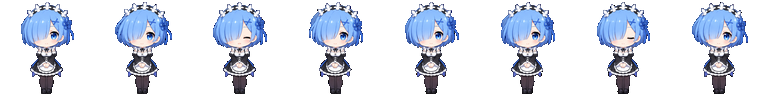
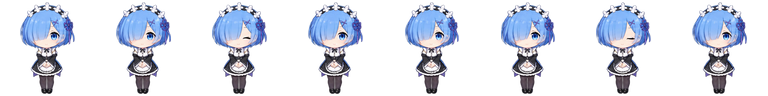
fix: rebuild complete imported pet sprites

diff --git a/public/floating-bootstrap.js b/public/floating-bootstrap.js
@@ -132,7 +132,6 @@
     var suppressLauncherClick = false;
     var petVisual = null;
     var petSprite = null;
-    var petSpriteUnderlay = null;
     var petMenu = null;
     var wandPetEntry = null;
     var wandObserver = null;
@@ -1453,36 +1452,28 @@
       if (!petSprite) return;
       var meta = petStateMeta(petState);
       var visualScale = meta.directional && petDirection !== PET_BASE_FACING ? -1 : 1;
-      [petSpriteUnderlay, petSprite].filter(Boolean).forEach(function (layer) {
-        layer.style.setProperty("--pet-facing-scale", String(visualScale));
-      });
+      petSprite.style.setProperty("--pet-facing-scale", String(visualScale));
     }
 
     function applyPetStateAppearance() {
       if (!petSprite) return;
       var meta = petStateMeta(petState);
       var backgroundImage = "url('" + petAssetUrl(petStateAsset(petState)).replace(/'/g, "%27") + "')";
-      [petSpriteUnderlay, petSprite].filter(Boolean).forEach(function (layer) {
-        layer.style.backgroundImage = backgroundImage;
-        layer.style.backgroundSize = (meta.total * PET_RENDER_SIZE) + "px " + PET_RENDER_SIZE + "px";
-        layer.style.setProperty("--pet-lift", "0px");
-      });
+      petSprite.style.backgroundImage = backgroundImage;
+      petSprite.style.backgroundSize = (meta.total * PET_RENDER_SIZE) + "px " + PET_RENDER_SIZE + "px";
+      petSprite.style.setProperty("--pet-lift", "0px");
       if (launcher) {
         launcher.dataset.petState = petState;
         launcher.dataset.petCharacter = petCharacterId;
       }
       var visualScale = meta.directional && petDirection !== PET_BASE_FACING ? -1 : 1;
-      [petSpriteUnderlay, petSprite].filter(Boolean).forEach(function (layer) {
-        layer.style.setProperty("--pet-facing-scale", String(visualScale));
-      });
+      petSprite.style.setProperty("--pet-facing-scale", String(visualScale));
     }
 
     function applyPetFrame() {
       if (!petSprite) return;
       var position = (-petFrame * PET_RENDER_SIZE) + "px 0";
-      [petSpriteUnderlay, petSprite].filter(Boolean).forEach(function (layer) {
-        layer.style.backgroundPosition = position;
-      });
+      petSprite.style.backgroundPosition = position;
     }
 
     function petClampToHabitat(x, y) {
@@ -1920,7 +1911,7 @@
       return [
         "*{box-sizing:border-box}[hidden]{display:none!important}",
         ".launcher{pointer-events:auto;position:fixed;right:22px;bottom:90px;width:96px;height:96px;border:0;padding:0;border-radius:28px;background:transparent;color:#fff;display:block;cursor:grab;touch-action:none;user-select:none;z-index:3;overflow:visible}",
-        ".launcher:focus-visible{outline:3px solid rgba(125,211,252,.96);outline-offset:3px}.launcher.dragging{cursor:grabbing}.pet-visual{position:absolute;z-index:1;inset:0;width:96px;height:96px;transform-origin:50% 100%;will-change:transform}.pet-sprite{position:absolute;inset:0;width:96px;height:96px;background-repeat:no-repeat;image-rendering:auto;filter:drop-shadow(0 7px 5px rgba(2,6,23,.58));transform:translateY(var(--pet-lift,0)) scaleX(var(--pet-facing-scale,1));transform-origin:50% 100%;opacity:0;transition:filter .16s ease}.launcher.pet-ready .pet-sprite{opacity:1}.pet-sprite-main{z-index:1}.pet-sprite-underlay{z-index:0;opacity:0!important}.launcher.pet-ready[data-pet-character='miku'] .pet-sprite-underlay,.launcher.pet-ready[data-pet-character='rem'] .pet-sprite-underlay,.launcher.pet-ready[data-pet-character='mai'] .pet-sprite-underlay,.launcher.pet-ready[data-pet-character='umaru'] .pet-sprite-underlay{opacity:.96!important;filter:blur(.85px) saturate(1.08) contrast(1.04)}.launcher:hover .pet-sprite-main,.launcher.active .pet-sprite-main{filter:drop-shadow(0 8px 5px rgba(30,64,175,.58)) drop-shadow(0 0 5px rgba(125,211,252,.34))}.launcher.dragging .pet-sprite-main{transition:none;filter:drop-shadow(0 12px 7px rgba(2,6,23,.54))}@keyframes pet-click-reaction{0%{transform:translate3d(0,0,0) scale(1)}28%{transform:translate3d(0,-10px,0) scale(1.06,.94)}58%{transform:translate3d(0,2px,0) scale(.96,1.04)}100%{transform:translate3d(0,0,0) scale(1)}}@keyframes pet-long-reaction{0%,100%{transform:rotate(0) scale(1)}20%{transform:rotate(-7deg) scale(1.04)}40%{transform:rotate(7deg) scale(.98)}60%{transform:rotate(-5deg) scale(1.04)}80%{transform:rotate(4deg) scale(1)}}@keyframes pet-held-reaction{0%,100%{transform:translate3d(0,-3px,0) rotate(-3deg)}50%{transform:translate3d(0,2px,0) rotate(3deg)}}@keyframes pet-land-reaction{0%{transform:translate3d(0,-7px,0) scale(.94,1.07)}45%{transform:translate3d(0,3px,0) scale(1.08,.9)}75%{transform:translate3d(0,-2px,0) scale(.98,1.02)}100%{transform:none}}.launcher[data-pet-state='unique_a'] .pet-visual{animation:pet-click-reaction .72s cubic-bezier(.2,.82,.25,1)}.launcher[data-pet-state='unique_b'] .pet-visual{animation:pet-long-reaction .82s ease-in-out}.launcher[data-pet-state='held_scared'] .pet-visual{animation:pet-held-reaction .28s ease-in-out infinite}.launcher[data-pet-state='landing'] .pet-visual{animation:pet-land-reaction .62s cubic-bezier(.2,.8,.25,1)}",
+        ".launcher:focus-visible{outline:3px solid rgba(125,211,252,.96);outline-offset:3px}.launcher.dragging{cursor:grabbing}.pet-visual{position:absolute;z-index:1;inset:0;width:96px;height:96px;transform-origin:50% 100%;will-change:transform}.pet-sprite{position:absolute;inset:0;width:96px;height:96px;background-repeat:no-repeat;image-rendering:auto;filter:drop-shadow(0 7px 5px rgba(2,6,23,.58));transform:translateY(var(--pet-lift,0)) scaleX(var(--pet-facing-scale,1));transform-origin:50% 100%;opacity:0;transition:filter .16s ease}.launcher.pet-ready .pet-sprite{opacity:1}.launcher:hover .pet-sprite,.launcher.active .pet-sprite{filter:drop-shadow(0 8px 5px rgba(30,64,175,.58)) drop-shadow(0 0 5px rgba(125,211,252,.34))}.launcher.dragging .pet-sprite{transition:none;filter:drop-shadow(0 12px 7px rgba(2,6,23,.54))}@keyframes pet-click-reaction{0%{transform:translate3d(0,0,0) scale(1)}28%{transform:translate3d(0,-10px,0) scale(1.06,.94)}58%{transform:translate3d(0,2px,0) scale(.96,1.04)}100%{transform:translate3d(0,0,0) scale(1)}}@keyframes pet-long-reaction{0%,100%{transform:rotate(0) scale(1)}20%{transform:rotate(-7deg) scale(1.04)}40%{transform:rotate(7deg) scale(.98)}60%{transform:rotate(-5deg) scale(1.04)}80%{transform:rotate(4deg) scale(1)}}@keyframes pet-held-reaction{0%,100%{transform:translate3d(0,-3px,0) rotate(-3deg)}50%{transform:translate3d(0,2px,0) rotate(3deg)}}@keyframes pet-land-reaction{0%{transform:translate3d(0,-7px,0) scale(.94,1.07)}45%{transform:translate3d(0,3px,0) scale(1.08,.9)}75%{transform:translate3d(0,-2px,0) scale(.98,1.02)}100%{transform:none}}.launcher[data-pet-state='unique_a'] .pet-visual{animation:pet-click-reaction .72s cubic-bezier(.2,.82,.25,1)}.launcher[data-pet-state='unique_b'] .pet-visual{animation:pet-long-reaction .82s ease-in-out}.launcher[data-pet-state='held_scared'] .pet-visual{animation:pet-held-reaction .28s ease-in-out infinite}.launcher[data-pet-state='landing'] .pet-visual{animation:pet-land-reaction .62s cubic-bezier(.2,.8,.25,1)}",
         ".pet-fallback{position:absolute;left:15px;top:15px;width:66px;height:66px;border:1px solid rgba(196,116,255,.7);border-radius:24px;background:linear-gradient(145deg,#58115d,#19142d 62%,#0b1022);box-shadow:0 16px 44px rgba(20,0,35,.48),inset 0 1px rgba(255,255,255,.18);display:grid;place-items:center;transition:opacity .18s ease}.launcher.pet-ready .pet-fallback{opacity:0;pointer-events:none}.pet-fallback svg{width:30px;height:30px}",
 ".pet-menu{position:fixed;z-index:4;width:120px;height:56px;pointer-events:none;opacity:0;transform:translateY(8px) scale(.9);transform-origin:50% 100%;transition:opacity .14s ease,transform .14s ease}.pet-menu.open{pointer-events:auto;opacity:1;transform:none}.pet-menu button{position:absolute;top:0;width:56px;height:56px;padding:0;border:1px solid rgba(226,232,240,.7);border-radius:50%;background:linear-gradient(145deg,rgba(30,41,59,.97),rgba(15,23,42,.98));box-shadow:0 8px 22px rgba(2,6,23,.48),inset 0 1px rgba(255,255,255,.14);color:#f8fafc;font:850 11px/1.1 system-ui;cursor:pointer;touch-action:manipulation}.pet-menu button[data-pet-action='choose']{left:0}.pet-menu button[data-pet-action='settings']{left:64px}.pet-menu button:hover,.pet-menu button:focus-visible{border-color:#a5f3fc;background:linear-gradient(145deg,#155e75,#172554);outline:2px solid rgba(165,243,252,.72);outline-offset:2px}",
         ".launcher i{position:absolute;z-index:2;right:1px;top:1px;min-width:20px;height:20px;padding:0 5px;border:2px solid rgba(255,255,255,.88);border-radius:10px;background:#f25aa6;color:white;font:800 11px/16px system-ui;text-align:center;box-shadow:0 3px 8px rgba(15,23,42,.46)}@media(prefers-reduced-motion:reduce){.pet-sprite,.pet-fallback,.pet-visual{transition:none!important;animation:none!important}}",
@@ -2282,14 +2273,13 @@
       shell.style.cssText = "position:fixed;inset:0;width:100vw;height:100vh;pointer-events:none;z-index:2147481900;";
       shadow = shell.attachShadow({ mode: "open" });
       shadow.innerHTML = "<style>" + shellCss() + "</style>" +
-        "<button class='launcher' type='button' aria-label='打开悬浮手机' aria-haspopup='menu' aria-expanded='false'><span class='pet-visual' aria-hidden='true'><span class='pet-sprite pet-sprite-underlay'></span><span class='pet-sprite pet-sprite-main'></span></span><span class='pet-fallback' aria-hidden='true'><svg viewBox='0 0 24 24' fill='none' stroke='currentColor' stroke-width='1.8'><rect x='6' y='2.5' width='12' height='19' rx='3'/><path d='M10 5h4M11 18.5h2'/></svg></span><i>0</i></button>" +
+        "<button class='launcher' type='button' aria-label='打开悬浮手机' aria-haspopup='menu' aria-expanded='false'><span class='pet-visual' aria-hidden='true'><span class='pet-sprite'></span></span><span class='pet-fallback' aria-hidden='true'><svg viewBox='0 0 24 24' fill='none' stroke='currentColor' stroke-width='1.8'><rect x='6' y='2.5' width='12' height='19' rx='3'/><path d='M10 5h4M11 18.5h2'/></svg></span><i>0</i></button>" +
 "<nav class='pet-menu' role='menu' aria-label='桌宠菜单' aria-hidden='true'><button type='button' role='menuitem' data-pet-action='choose'>选择</button><button type='button' role='menuitem' data-pet-action='settings'>通用</button></nav>" +
         "<section class='panel' aria-label='HypnoOS 悬浮手机'><aside class='map-extra-chain-host' aria-label='更多地图区域' aria-hidden='true'></aside><aside class='work-lever-host' aria-label='打工滚筒摇杆'><button class='work-lever' type='button' data-work-lever-host aria-label='拉动或点击摇杆切换下一份工作'><span class='work-lever__body'><svg viewBox='0 0 126 150' aria-hidden='true'><defs><linearGradient id='workLeverTube' x1='0' y1='0' x2='1' y2='0'><stop offset='0' stop-color='#aeb8b1'/><stop offset='.42' stop-color='#647169'/><stop offset='.72' stop-color='#303a34'/><stop offset='1' stop-color='#151b17'/></linearGradient><radialGradient id='workLeverKnob' cx='.32' cy='.25' r='.72'><stop offset='0' stop-color='#ffd36b'/><stop offset='.22' stop-color='#df850d'/><stop offset='.68' stop-color='#91340b'/><stop offset='1' stop-color='#431506'/></radialGradient></defs><path class='work-lever__tube-shadow' d='M44 31V101Q44 120 63 120H126'/><path class='work-lever__tube' d='M44 31V101Q44 120 63 120H126'/><path class='work-lever__tube-shine' d='M44 35V99Q44 113 61 113H122'/><circle class='work-lever__knob-ring' cx='44' cy='28' r='33'/><circle class='work-lever__knob-core' cx='44' cy='28' r='27'/></svg></span></button></aside><aside class='hypnosis-judgement-perch' aria-hidden='true'><span class='hypnosis-judgement-figure is-demon'><img class='hypnosis-judgement-figure__rear' alt='' draggable='false' src='" + escapeHtml(String(config.assetBase || "").replace(/\/?$/, "/") + "profile-ui/hypnosis-demon-side-v3.png") + "'><img class='hypnosis-judgement-figure__front' alt='' draggable='false' src='" + escapeHtml(String(config.assetBase || "").replace(/\/?$/, "/") + "profile-ui/hypnosis-demon-side-v3.png") + "'></span><span class='hypnosis-judgement-figure is-angel'><img class='hypnosis-judgement-figure__rear' alt='' draggable='false' src='" + escapeHtml(String(config.assetBase || "").replace(/\/?$/, "/") + "profile-ui/hypnosis-angel-side-v3.png") + "'><img class='hypnosis-judgement-figure__front' alt='' draggable='false' src='" + escapeHtml(String(config.assetBase || "").replace(/\/?$/, "/") + "profile-ui/hypnosis-angel-side-v3.png") + "'></span></aside><aside class='encounter-detail-host' aria-hidden='true'></aside><aside class='profile-neighbor-host' aria-label='相邻人物档案'><button class='profile-neighbor-rail prev' type='button' data-kicker='PREV' data-profile-neighbor='prev'></button><button class='profile-neighbor-rail next' type='button' data-kicker='NEXT' data-profile-neighbor='next'></button></aside><aside class='encounter-possession-decor-host' aria-hidden='true' hidden><img alt='' draggable='false' src='" + escapeHtml(String(config.assetBase || "").replace(/\/?$/, "/") + "profile-ui/profile-possession-top-grip-v1.png") + "'></aside><aside class='profile-possession-host' aria-label='附身控制'><button class='profile-possession-grip' type='button' data-profile-possession-host='' aria-pressed='false'><img alt='' draggable='false' src='" + escapeHtml(String(config.assetBase || "").replace(/\/?$/, "/") + "profile-ui/profile-possession-top-grip-v1.png") + "'></button></aside><div class='phone-wrap'><iframe class='phone' title='HypnoOS 手机前端' scrolling='no'></iframe><div class='variable-format-dialog' role='dialog' aria-modal='true' aria-hidden='true'><section class='variable-format-dialog__card'><strong data-variable-format-title>变量格式检查</strong><p data-variable-format-body></p><div class='variable-format-dialog__actions'><button type='button' data-variable-format-close>关闭</button><button type='button' data-variable-format-repair>清理并补齐</button></div></section></div></div><span class='drag-edge top' data-phone-drag></span><span class='drag-edge right' data-phone-drag></span><span class='drag-edge bottom' data-phone-drag></span><span class='drag-edge left' data-phone-drag></span><span class='drag-grip' data-phone-drag aria-label='拖动手机'></span><span class='resize-corner left' data-phone-resize='left'></span><span class='resize-corner right' data-phone-resize='right'></span><aside class='sidecar'><section class='resource-panel loading' aria-label='当前楼层资源'><div class='resource-row money'><span>零花钱</span><strong data-resource-money>--</strong></div><div class='resource-row starlight'><span>星光点</span><strong data-resource-starlight>--</strong></div><div class='resource-row energy'><span>MC能量</span><strong data-resource-energy>--</strong></div></section><button class='variable-format-toggle' type='button'>变量格式检查</button><span class='readonly'>历史楼层 · 只读；切回当前楼后才能操作</span><button class='pet-character-toggle' type='button'>人物 · 爱丽莎</button><button class='floor-toggle' type='button' aria-expanded='false'>楼层</button><section class='floor-drawer'><span class='floor-title'></span><button class='mode' type='button'>跟随视口</button><select class='select' aria-label='选择变量楼层'></select><span class='badge'></span></section></aside></section>";
       hostDocument.body.appendChild(shell);
       launcher = shadow.querySelector(".launcher");
       petVisual = shadow.querySelector(".pet-visual");
-      petSprite = shadow.querySelector(".pet-sprite-main");
-      petSpriteUnderlay = shadow.querySelector(".pet-sprite-underlay");
+      petSprite = shadow.querySelector(".pet-sprite");
       petMenu = shadow.querySelector(".pet-menu");
       ensureWandPetEntry();
       if (!wandObserver && typeof host.MutationObserver === "function") {
@@ -3084,7 +3074,6 @@
         petMenuOpen = false;
         petVisual = null;
         petSprite = null;
-        petSpriteUnderlay = null;
         if (profileOpenTimer) host.clearTimeout(profileOpenTimer);
         profileOpenTimer = 0;
         pendingProfileRole = "";

diff --git a/src/floating-host.js b/src/floating-host.js
@@ -4,7 +4,7 @@ import { HYPNOSIS_RULES_API } from './hypnosis-rules.js';
 const BRIDGE_KEY = '__HYPNOOS3_CORE_BRIDGE__';
 const SINGLETON_KEY = '__HYPNOOS3_EXTENSION_FLOATING_SINGLETON__';
 const HOST_ID = 'hypnoos3-extension-floating-phone-host';
-const FRONTEND_REVISION = 'hypnoos3-1.0.0-pet-motion-resize';
+const FRONTEND_REVISION = 'hypnoos3-1.0.0-pet-source-rebuild';
 
 function phoneFrame() {
   return document.querySelector(`#${HOST_ID}`)?.shadowRoot?.querySelector('iframe.phone') || null;

diff --git a/scripts/build-pet-strips.py b/scripts/build-pet-strips.py
@@ -58,16 +58,110 @@ def remove_connected_background(image: Image.Image, threshold: int) -> Image.Ima
 
 
 def normalize_frame(image: Image.Image) -> Image.Image:
-    bounds = image.getbbox()
+    bounds = image.getchannel("A").point(lambda value: 255 if value > 16 else 0).getbbox()
     if not bounds:
         raise ValueError("sprite frame became empty after background removal")
     subject = image.crop(bounds)
-    subject.thumbnail((FRAME_SIZE - 6, FRAME_SIZE - 4), Image.Resampling.LANCZOS)
+    scale = min((FRAME_SIZE - 6) / subject.width, (FRAME_SIZE - 4) / subject.height)
+    subject = subject.resize((max(1, round(subject.width * scale)), max(1, round(subject.height * scale))), Image.Resampling.LANCZOS)
     frame = Image.new("RGBA", (FRAME_SIZE, FRAME_SIZE), (0, 0, 0, 0))
     x = (FRAME_SIZE - subject.width) // 2
     y = FRAME_SIZE - subject.height - 2
     frame.alpha_composite(subject, (x, y))
-    return frame
+    return fill_enclosed_alpha_holes(frame)
+
+
+def fill_enclosed_alpha_holes(image: Image.Image) -> Image.Image:
+    source = image.convert("RGBA")
+    pixels = source.load()
+    outside = bytearray(FRAME_SIZE * FRAME_SIZE)
+    queue: deque[tuple[int, int]] = deque()
+
+    def seed(x: int, y: int) -> None:
+        offset = y * FRAME_SIZE + x
+        if outside[offset] or pixels[x, y][3] > 16:
+            return
+        outside[offset] = 1
+        queue.append((x, y))
+
+    for x in range(FRAME_SIZE):
+        seed(x, 0)
+        seed(x, FRAME_SIZE - 1)
+    for y in range(1, FRAME_SIZE - 1):
+        seed(0, y)
+        seed(FRAME_SIZE - 1, y)
+    while queue:
+        x, y = queue.popleft()
+        for next_x, next_y in ((x - 1, y), (x + 1, y), (x, y - 1), (x, y + 1)):
+            if 0 <= next_x < FRAME_SIZE and 0 <= next_y < FRAME_SIZE:
+                seed(next_x, next_y)
+
+    holes = {
+        (x, y)
+        for y in range(FRAME_SIZE)
+        for x in range(FRAME_SIZE)
+        if pixels[x, y][3] <= 16 and not outside[y * FRAME_SIZE + x]
+    }
+    while holes:
+        resolved: list[tuple[int, int, tuple[int, int, int, int]]] = []
+        for x, y in holes:
+            neighbors = [
+                pixels[next_x, next_y]
+                for next_x, next_y in ((x - 1, y), (x + 1, y), (x, y - 1), (x, y + 1))
+                if 0 <= next_x < FRAME_SIZE and 0 <= next_y < FRAME_SIZE and (next_x, next_y) not in holes and pixels[next_x, next_y][3] > 16
+            ]
+            if neighbors:
+                resolved.append((x, y, tuple(round(sum(color[channel] for color in neighbors) / len(neighbors)) for channel in range(3)) + (255,)))
+        if not resolved:
+            break
+        for x, y, color in resolved:
+            pixels[x, y] = color
+            holes.remove((x, y))
+    return source
+
+
+def remove_alpha_specks(image: Image.Image) -> Image.Image:
+    source = image.convert("RGBA")
+    width, height = source.size
+    alpha = source.getchannel("A").point(lambda value: value if value > 16 else 0)
+    alpha_pixels = alpha.load()
+    visited = bytearray(width * height)
+    components: list[list[tuple[int, int]]] = []
+
+    for y in range(height):
+        for x in range(width):
+            offset = y * width + x
+            if visited[offset] or alpha_pixels[x, y] <= 16:
+                continue
+            visited[offset] = 1
+            queue = deque([(x, y)])
+            component: list[tuple[int, int]] = []
+            while queue:
+                current_x, current_y = queue.popleft()
+                component.append((current_x, current_y))
+                for next_x, next_y in ((current_x - 1, current_y), (current_x + 1, current_y), (current_x, current_y - 1), (current_x, current_y + 1)):
+                    if next_x < 0 or next_y < 0 or next_x >= width or next_y >= height:
+                        continue
+                    next_offset = next_y * width + next_x
+                    if visited[next_offset] or alpha_pixels[next_x, next_y] <= 16:
+                        continue
+                    visited[next_offset] = 1
+                    queue.append((next_x, next_y))
+            components.append(component)
+
+    if not components:
+        raise ValueError("transparent source frame does not contain a subject")
+    largest = max(len(component) for component in components)
+    minimum = max(12, largest // 200)
+    clean_alpha = alpha.copy()
+    clean_pixels = clean_alpha.load()
+    for component in components:
+        if len(component) >= minimum:
+            continue
+        for x, y in component:
+            clean_pixels[x, y] = 0
+    source.putalpha(clean_alpha)
+    return source
 
 
 def compose_strip(frames: list[Image.Image]) -> Image.Image:
@@ -83,23 +177,32 @@ def main() -> None:
     parser.add_argument("--pet-id", required=True)
     parser.add_argument("--output-dir", required=True, type=Path)
     parser.add_argument("--threshold", type=int, default=18)
+    parser.add_argument("--layout", choices=("4x2", "8x1"), default="4x2")
     args = parser.parse_args()
 
-    source = Image.open(args.source).convert("RGB")
-    if source.width % GRID_COLUMNS or source.height % GRID_ROWS:
-        raise ValueError("source dimensions must divide evenly into a 4x2 grid")
-    cell_width = source.width // GRID_COLUMNS
-    cell_height = source.height // GRID_ROWS
     frames: list[Image.Image] = []
-    for row in range(GRID_ROWS):
-        for column in range(GRID_COLUMNS):
-            cell = source.crop((
-                column * cell_width,
-                row * cell_height,
-                (column + 1) * cell_width,
-                (row + 1) * cell_height,
-            ))
-            frames.append(normalize_frame(remove_connected_background(cell, args.threshold)))
+    if args.layout == "8x1":
+        source = Image.open(args.source).convert("RGBA")
+        for index in range(8):
+            left = round(index * source.width / 8)
+            right = round((index + 1) * source.width / 8)
+            cell = remove_alpha_specks(source.crop((left, 0, right, source.height)))
+            frames.append(normalize_frame(cell))
+    else:
+        source = Image.open(args.source).convert("RGB")
+        if source.width % GRID_COLUMNS or source.height % GRID_ROWS:
+            raise ValueError("source dimensions must divide evenly into a 4x2 grid")
+        cell_width = source.width // GRID_COLUMNS
+        cell_height = source.height // GRID_ROWS
+        for row in range(GRID_ROWS):
+            for column in range(GRID_COLUMNS):
+                cell = source.crop((
+                    column * cell_width,
+                    row * cell_height,
+                    (column + 1) * cell_width,
+                    (row + 1) * cell_height,
+                ))
+                frames.append(normalize_frame(remove_connected_background(cell, args.threshold)))
 
     target = args.output_dir / args.pet_id
     target.mkdir(parents=True, exist_ok=True)

diff --git a/scripts/repair-pet-alpha.py b/scripts/repair-pet-alpha.py
@@ -3,28 +3,56 @@ from __future__ import annotations
 import argparse
 from pathlib import Path
 
+from collections import deque
+
 from PIL import Image
 
 
 FRAME_SIZE = 96
 CHARACTERS = ("miku", "rem", "mai", "umaru")
-ACTION_GROUPS = ("drag", "unique-a", "unique-b")
+ACTION_GROUPS = ("idle", "drag", "unique-a", "unique-b", "enter", "exit", "landing")
 
 
-def harden_strip(path: Path, check: bool) -> int:
+def count_enclosed_transparent_pixels(path: Path) -> int:
     source = Image.open(path).convert("RGBA")
     if source.height != FRAME_SIZE or source.width % FRAME_SIZE:
         raise ValueError(f"unexpected pet strip dimensions: {path} ({source.size})")
-    alpha = source.getchannel("A")
-    partial = sum(alpha.histogram()[1:255])
-    if partial and not check:
-        source.putalpha(alpha.point(lambda value: 255 if value else 0))
-        source.save(path, optimize=True)
-    return partial
+    enclosed = 0
+    for frame_index in range(source.width // FRAME_SIZE):
+        alpha = source.crop((frame_index * FRAME_SIZE, 0, (frame_index + 1) * FRAME_SIZE, FRAME_SIZE)).getchannel("A")
+        pixels = alpha.load()
+        outside = bytearray(FRAME_SIZE * FRAME_SIZE)
+        queue: deque[tuple[int, int]] = deque()
+
+        def seed(x: int, y: int) -> None:
+            offset = y * FRAME_SIZE + x
+            if outside[offset] or pixels[x, y] > 16:
+                return
+            outside[offset] = 1
+            queue.append((x, y))
+
+        for x in range(FRAME_SIZE):
+            seed(x, 0)
+            seed(x, FRAME_SIZE - 1)
+        for y in range(1, FRAME_SIZE - 1):
+            seed(0, y)
+            seed(FRAME_SIZE - 1, y)
+        while queue:
+            x, y = queue.popleft()
+            for next_x, next_y in ((x - 1, y), (x + 1, y), (x, y - 1), (x, y + 1)):
+                if 0 <= next_x < FRAME_SIZE and 0 <= next_y < FRAME_SIZE:
+                    seed(next_x, next_y)
+        enclosed += sum(
+            1
+            for y in range(FRAME_SIZE)
+            for x in range(FRAME_SIZE)
+            if pixels[x, y] <= 16 and not outside[y * FRAME_SIZE + x]
+        )
+    return enclosed
 
 
 def main() -> None:
-    parser = argparse.ArgumentParser(description="Harden transformed pet action strips without filling intentional silhouette gaps.")
+    parser = argparse.ArgumentParser(description="Check imported pet strips for transparent holes inside character silhouettes.")
     parser.add_argument("--asset-root", type=Path, default=Path("public/assets/pet/v5"))
     parser.add_argument("--check", action="store_true")
     args = parser.parse_args()
@@ -34,15 +62,15 @@ def main() -> None:
     for character in CHARACTERS:
         for group in ACTION_GROUPS:
             path = args.asset_root / character / f"{character}-{group}-v5.png"
-            count = harden_strip(path, args.check)
+            count = count_enclosed_transparent_pixels(path)
             total += count
             if count:
                 unresolved.append((path, count))
 
     if args.check and unresolved:
         details = ", ".join(f"{path}:{count}" for path, count in unresolved)
-        raise SystemExit(f"pet action strips still contain partially transparent body pixels: {details}")
-    print(f"{'checked' if args.check else 'hardened'} {total} partially transparent action pixels")
+        raise SystemExit(f"pet action strips still contain enclosed transparent body pixels: {details}")
+    print(f"checked {total} enclosed transparent body pixels")
 
 
 if __name__ == "__main__":
